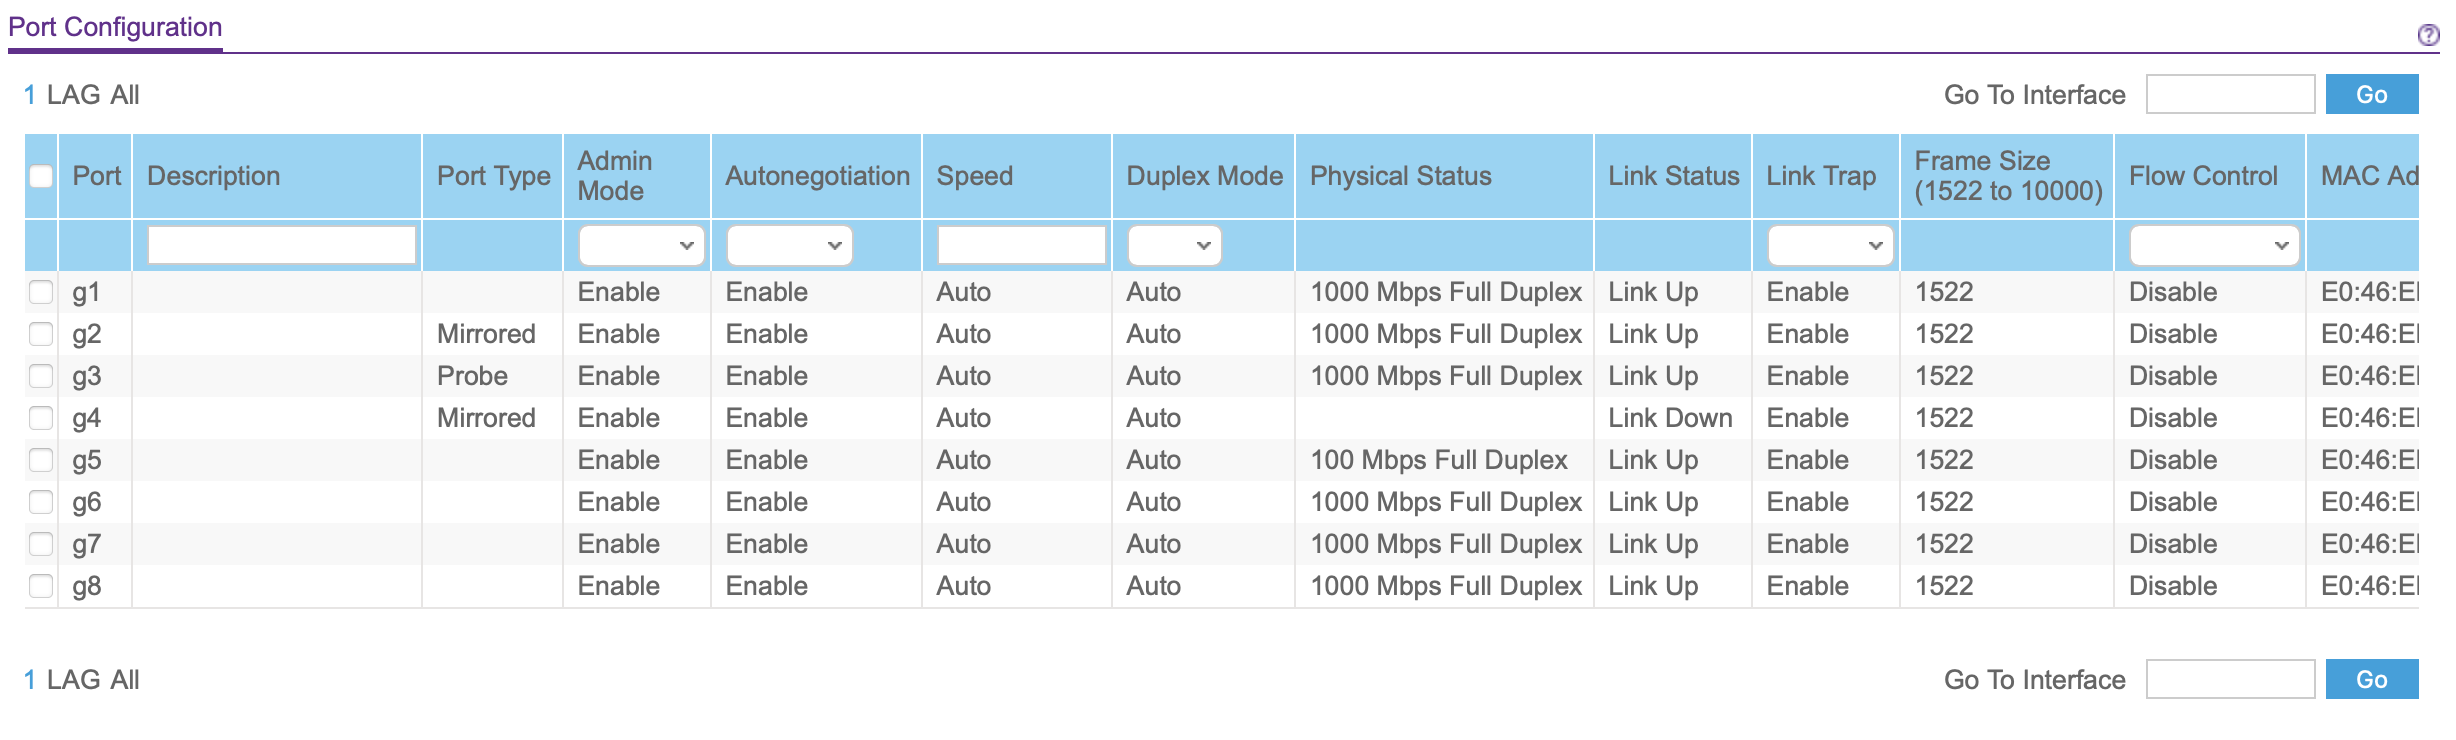
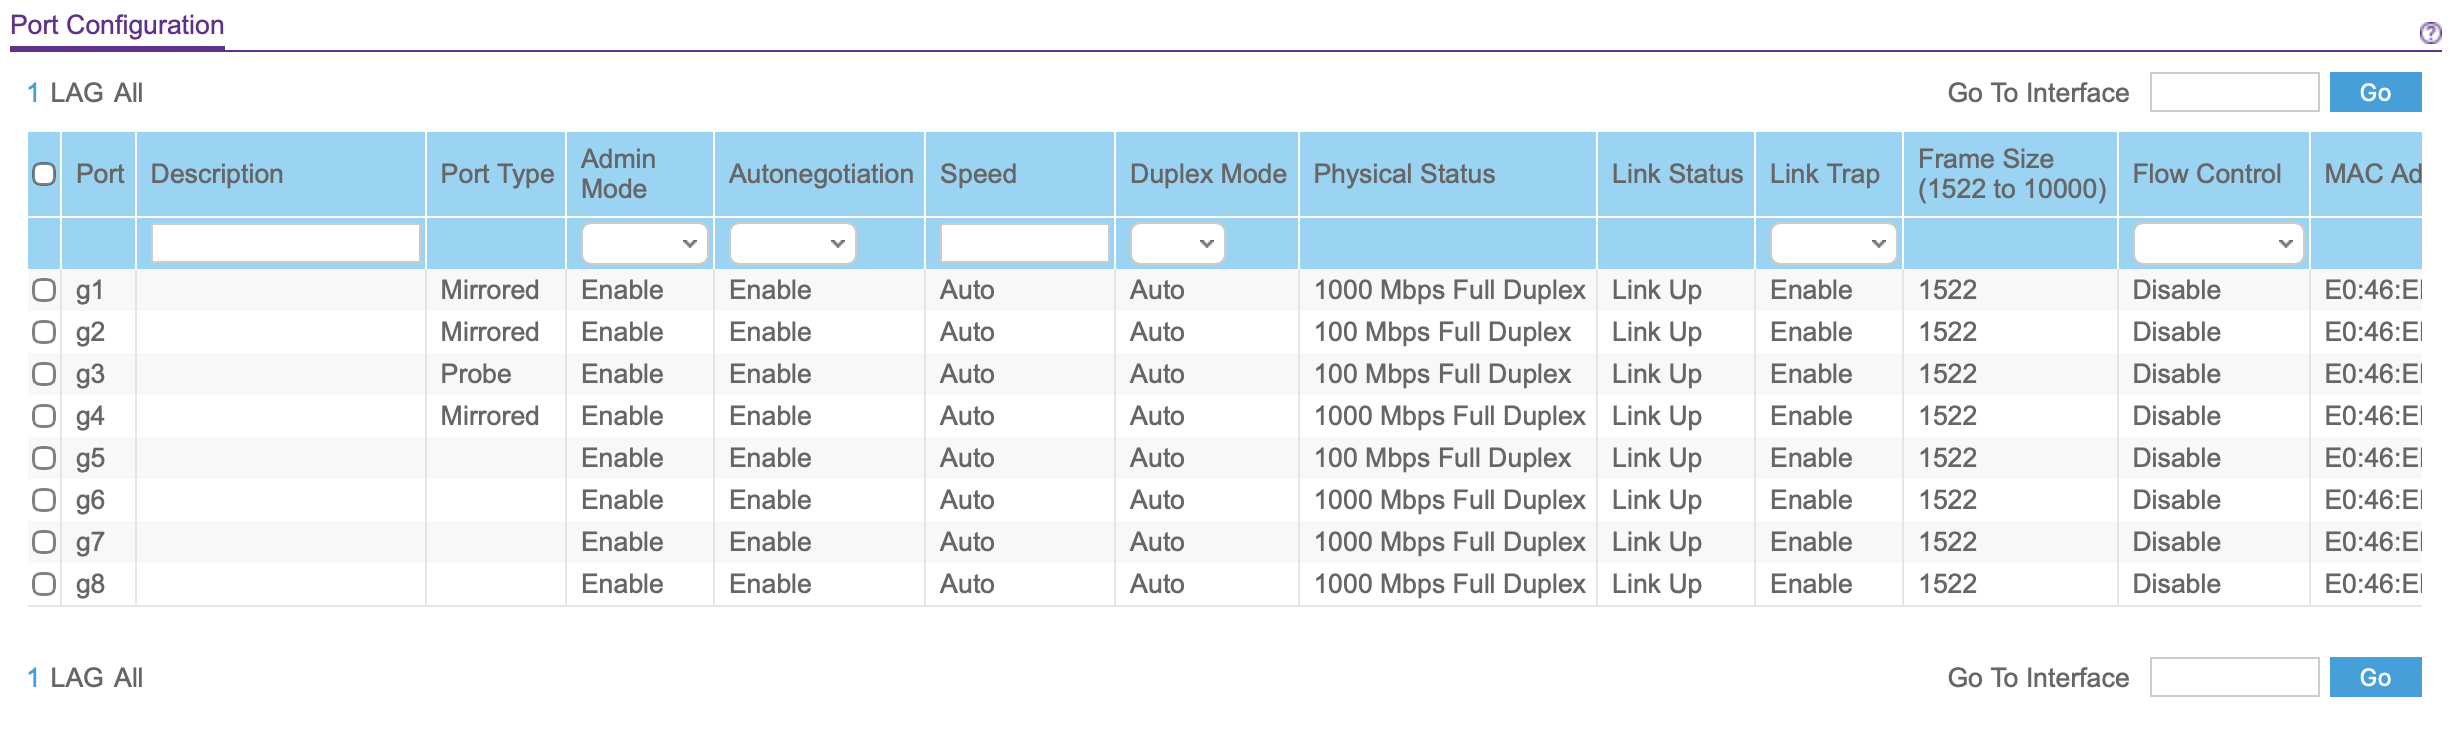
Update Project 2 switch validation evidence

diff --git a/02-vlan-firewall-validation/README.md b/02-vlan-firewall-validation/README.md
@@ -146,19 +146,19 @@ The following screenshots document the pfSense VLAN interface assignments, VLAN 
 
 ### Managed Switch Evidence
 
-The following screenshots document the managed switch configuration supporting the VLAN design. These screenshots show VLAN membership, PVID assignments, port configuration, and port mirroring/SPAN configuration used for Security Onion visibility.
+The following screenshots document the managed switch configuration supporting the VLAN design. These screenshots show VLAN membership, PVID assignments, port configuration, and port mirroring/SPAN configuration used for Security Onion visibility. The current switch evidence reflects the active lab setup, including Admin VLAN membership on the pfSense/Proxmox trunk paths and Admin access ports, VLAN 1 limited to the expected untagged trunk/default behavior, and port mirroring configured with g3 as the Security Onion probe/destination port.
 
 | Evidence | Description | Screenshot |
 |---|---|---|
-| Switch port configuration | Shows physical switch port configuration and device placement | [switch-port-configuration.png](evidence/switch-vlan-config/switch-port-configuration.png) |
-| Switch port mirroring | Shows mirror/SPAN configuration for Security Onion monitoring | [switch-port-mirroring.png](evidence/switch-vlan-config/switch-port-mirroring.png) |
+| Switch port configuration | Shows active port status, mirrored source ports, and g3 configured as the probe port for Security Onion monitoring | [switch-port-configuration.png](evidence/switch-vlan-config/switch-port-configuration.png) |
+| Switch port mirroring | Shows g3 as the mirror destination/probe port and mirrored source ports configured for Tx/Rx monitoring | [switch-port-mirroring.png](evidence/switch-vlan-config/switch-port-mirroring.png) |
 | Switch PVID configuration | Shows untagged VLAN assignment behavior for access ports | [switch-pvid-configuration.png](evidence/switch-vlan-config/switch-pvid-configuration.png) |
-| VLAN 1 membership | Shows default/native VLAN membership state | [switch-vlan-membership-vlan1.png](evidence/switch-vlan-config/switch-vlan-membership-vlan1.png) |
+| VLAN 1 membership | Shows the default/native VLAN membership state after cleanup, with VLAN 1 limited to the expected untagged ports | [switch-vlan-membership-vlan1.png](evidence/switch-vlan-config/switch-vlan-membership-vlan1.png) |
 | VLAN 10 membership | Shows HOME VLAN membership | [switch-vlan-membership-vlan10.png](evidence/switch-vlan-config/switch-vlan-membership-vlan10.png) |
 | VLAN 20 membership | Shows ATTACK VLAN membership | [switch-vlan-membership-vlan20.png](evidence/switch-vlan-config/switch-vlan-membership-vlan20.png) |
 | VLAN 30 membership | Shows SIEM VLAN membership | [switch-vlan-membership-vlan30.png](evidence/switch-vlan-config/switch-vlan-membership-vlan30.png) |
 | VLAN 40 membership | Shows VICTIM VLAN membership | [switch-vlan-membership-vlan40.png](evidence/switch-vlan-config/switch-vlan-membership-vlan40.png) |
-| VLAN 50 membership | Shows ADMIN VLAN membership | [switch-vlan-membership-vlan50.png](evidence/switch-vlan-config/switch-vlan-membership-vlan50.png) |
+| VLAN 50 membership | Shows ADMIN/Bastion VLAN membership, including tagged trunk participation and untagged Admin access ports | [switch-vlan-membership-vlan50.png](evidence/switch-vlan-config/switch-vlan-membership-vlan50.png) |
 
 ---
 
@@ -223,7 +223,7 @@ For example, the ATTACK VLAN allows traffic to the VICTIM VLAN before blocking a
 The completed implementation includes the following validated configuration outcomes:
 
 - pfSense VLAN interfaces, DHCP pools, firewall rules, and aliases have been configured for the segmented lab design.
-- The managed switch VLAN membership, PVID settings, trunk ports, and mirror/SPAN configuration have been validated.
+- The managed switch VLAN membership, PVID settings, trunk ports, and mirror/SPAN configuration have been validated, with g3 serving as the Security Onion probe/destination port and mirrored source ports configured for Tx/Rx monitoring.
 - Proxmox uses a VLAN-aware bridge for lab VM traffic, and Proxmox host management has been migrated from LAN `192.168.1.185/24` to Admin VLAN 50 using `vmbr0.50` with address `192.168.50.10/24` and gateway `192.168.50.1`.
 - Kali on VLAN 20 successfully reached the victim host on VLAN 40 during approved testing.
 - Security Onion observed Kali-to-victim ICMP and scan traffic after the active sensor interface was corrected from `bond0` to `enp6s19`.
@@ -285,7 +285,7 @@ sudo tcpdump -i enp6s19 -nn -e 'icmp or host 192.168.40.102'
 ```
 
 
-After this correction, Security Onion observed VLAN 20/VLAN 40 ICMP traffic between Kali and the victim endpoint at the packet-capture level. However, the traffic initially did not appear in the Security Onion Hunt dashboard. Additional troubleshooting showed that Security Onion was configured to use `bond0` as the sensor interface, while the mirrored attacker-to-victim traffic was actually arriving on `enp6s19`. The `bond0` interface was down and was not processing the mirrored traffic.
+After this correction, Security Onion observed VLAN 20/VLAN 40 ICMP traffic between Kali and the victim endpoint at the packet-capture level through the switch mirror/SPAN path using g3 as the probe/destination port. However, the traffic initially did not appear in the Security Onion Hunt dashboard. Additional troubleshooting showed that Security Onion was configured to use `bond0` as the sensor interface, while the mirrored attacker-to-victim traffic was actually arriving on `enp6s19`. The `bond0` interface was down and was not processing the mirrored traffic.
 
 The Security Onion local pillar configuration was updated so the sensor interface used `enp6s19` instead of `bond0`:
 
@@ -310,6 +310,7 @@ Final validation confirmed that the segmentation model is functioning as intende
 
 - pfSense rule order directly affects segmentation behavior because rules are evaluated from top to bottom.
 - VLAN tagging, untagged access ports, and PVID settings must align across pfSense, the managed switch, and Proxmox.
+- Switch evidence should be refreshed after cleanup changes so VLAN membership, native/default VLAN behavior, and mirror/SPAN configuration match the current lab state.
 - Management interfaces should be isolated from attacker and victim networks and reachable only through approved administrative paths.
 - Port mirroring supports network detection without exposing the SIEM management interface to attacker systems.
 - A dedicated Admin/Bastion VLAN creates a cleaner management model than allowing broad access from the home network.
